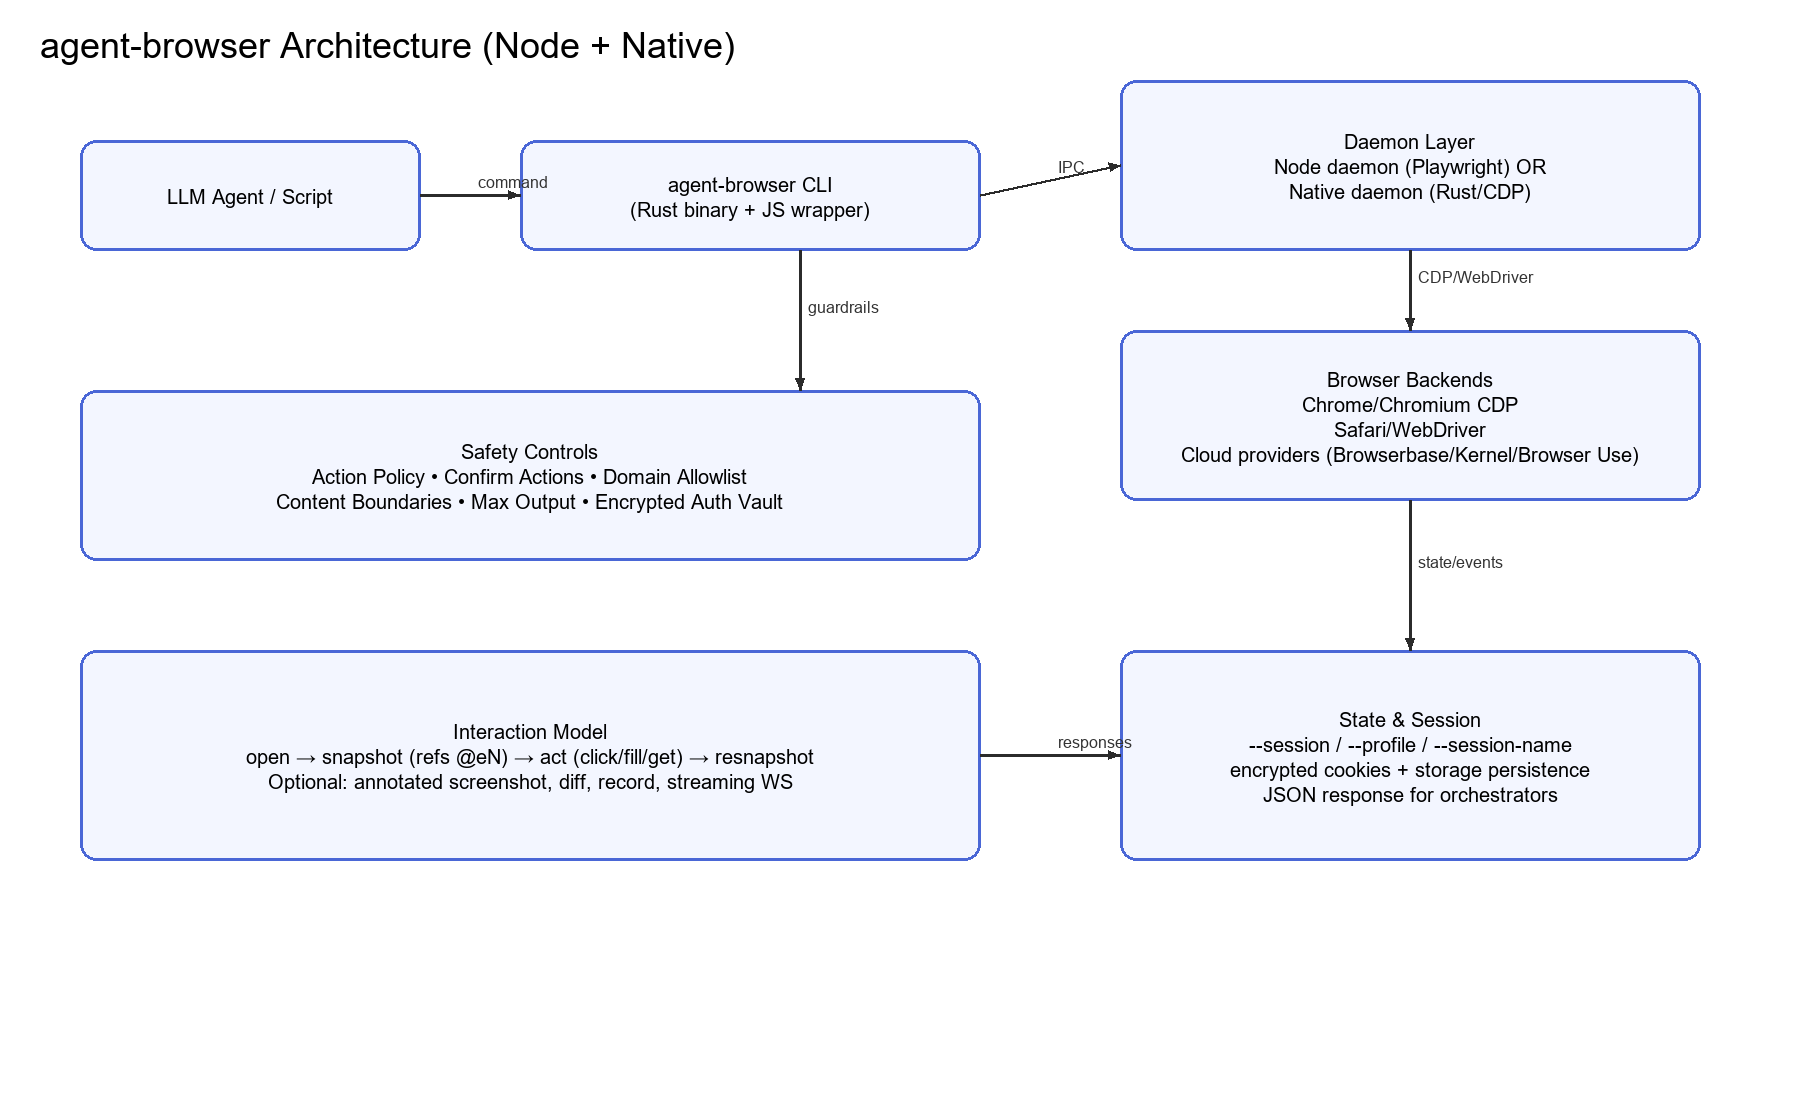
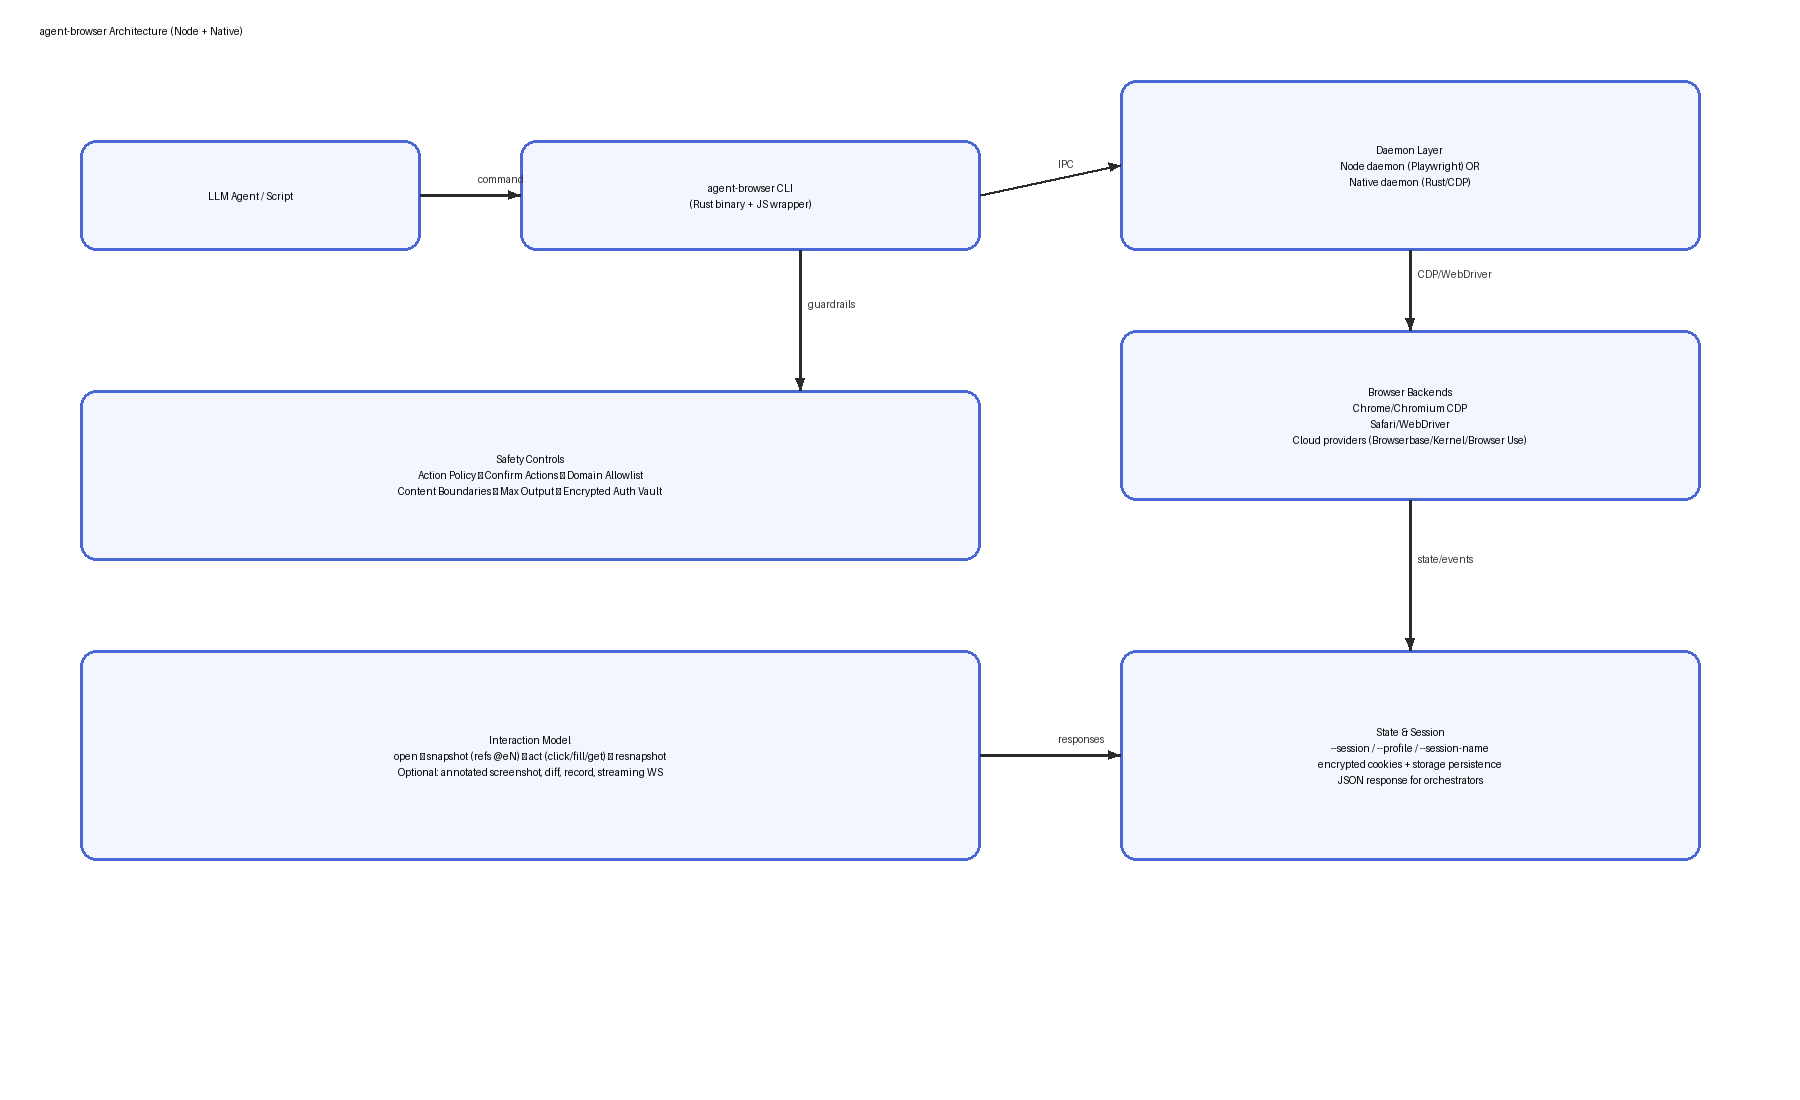
Clean up stale Python maintenance scripts

diff --git a/2026-03-12/assets/vercel-agent-browser-vs-qcut-cli/diagrams/gen_diagrams.py b/2026-03-12/assets/vercel-agent-browser-vs-qcut-cli/diagrams/gen_diagrams.py
@@ -1,7 +1,8 @@
 from PIL import Image, ImageDraw, ImageFont
 import os, math
-base=r'C:\Users\yanie\Desktop\articles\2026-03-12\assets\vercel-agent-browser-vs-qcut-cli\diagrams'
-os.makedirs(base,exist_ok=True)
+
+base = os.path.dirname(os.path.abspath(__file__))
+os.makedirs(base, exist_ok=True)
 
 def font(sz=22):
     try:
